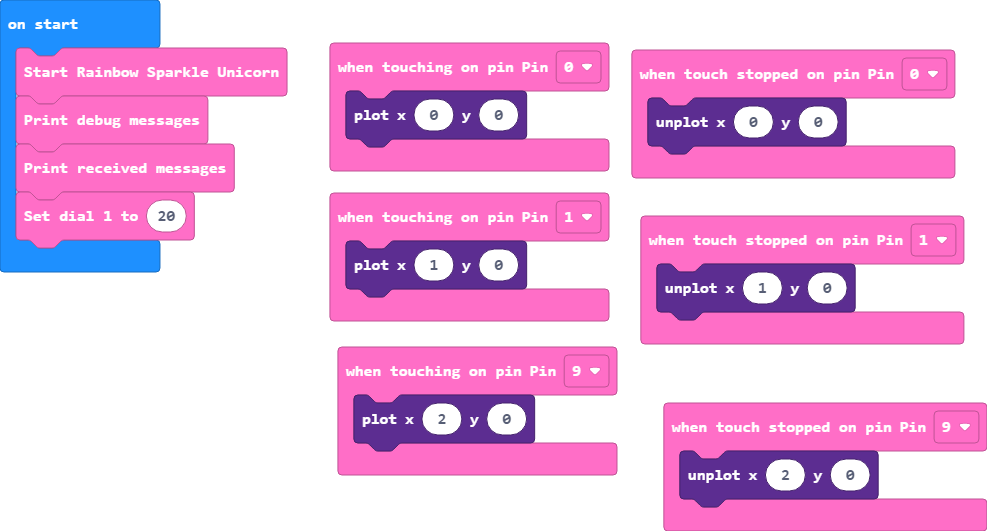
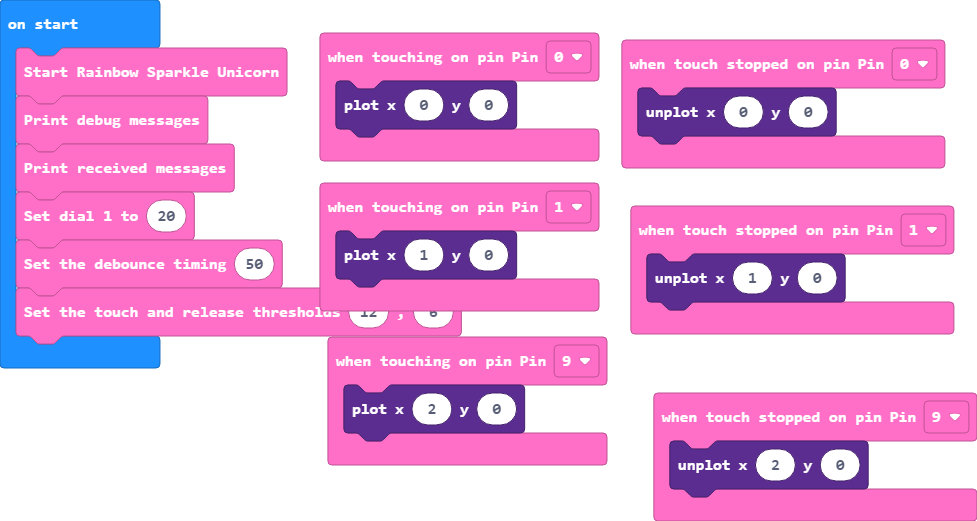
Update pxt.json, main.blocks, main.ts, touch.ts

Changed region(s): [[0.0, 0.0614, 1.0, 1.0], [0.0, 0.0307, 0.2764, 0.0921], [0.1535, 0.0, 0.1842, 0.0307]]

diff --git a/touch.ts b/touch.ts
@@ -62,6 +62,7 @@ namespace RainbowSparkleUnicorn.Touch {
      */
     //% subcategory="Expert"     
     //% group="Touch"
+    //% block="Set the touch and release thresholds $touchThreshold , $releaseThreshold"
     //% releaseThreshold.min=0 releaseThreshold.max=255 releaseThreshold.defl=6
     //% touchThreshold.min=0 touchThreshold.max=255 touchThreshold.defl=12
     export function setTouchThresholds(touchThreshold: number,releaseThreshold: number) {
@@ -74,6 +75,7 @@ namespace RainbowSparkleUnicorn.Touch {
      */   
     //% subcategory="Expert"     
     //% group="Touch"
+    //% block="Set the debounce timing $timing"
     //% timing.min=0 timing.max=100 timing.defl=50
     export function setDebounceDelay(timing: number) {
         _sendMessage("S2," + timing );

diff --git a/main.ts b/main.ts
@@ -20,3 +20,5 @@ RainbowSparkleUnicorn.start()
 RainbowSparkleUnicorn.printDebugMessages()
 RainbowSparkleUnicorn.printReceivedMessages()
 RainbowSparkleUnicorn.Controls.dial1(20)
+RainbowSparkleUnicorn.Touch.setDebounceDelay(50)
+RainbowSparkleUnicorn.Touch.setTouchThresholds(12, 6)
